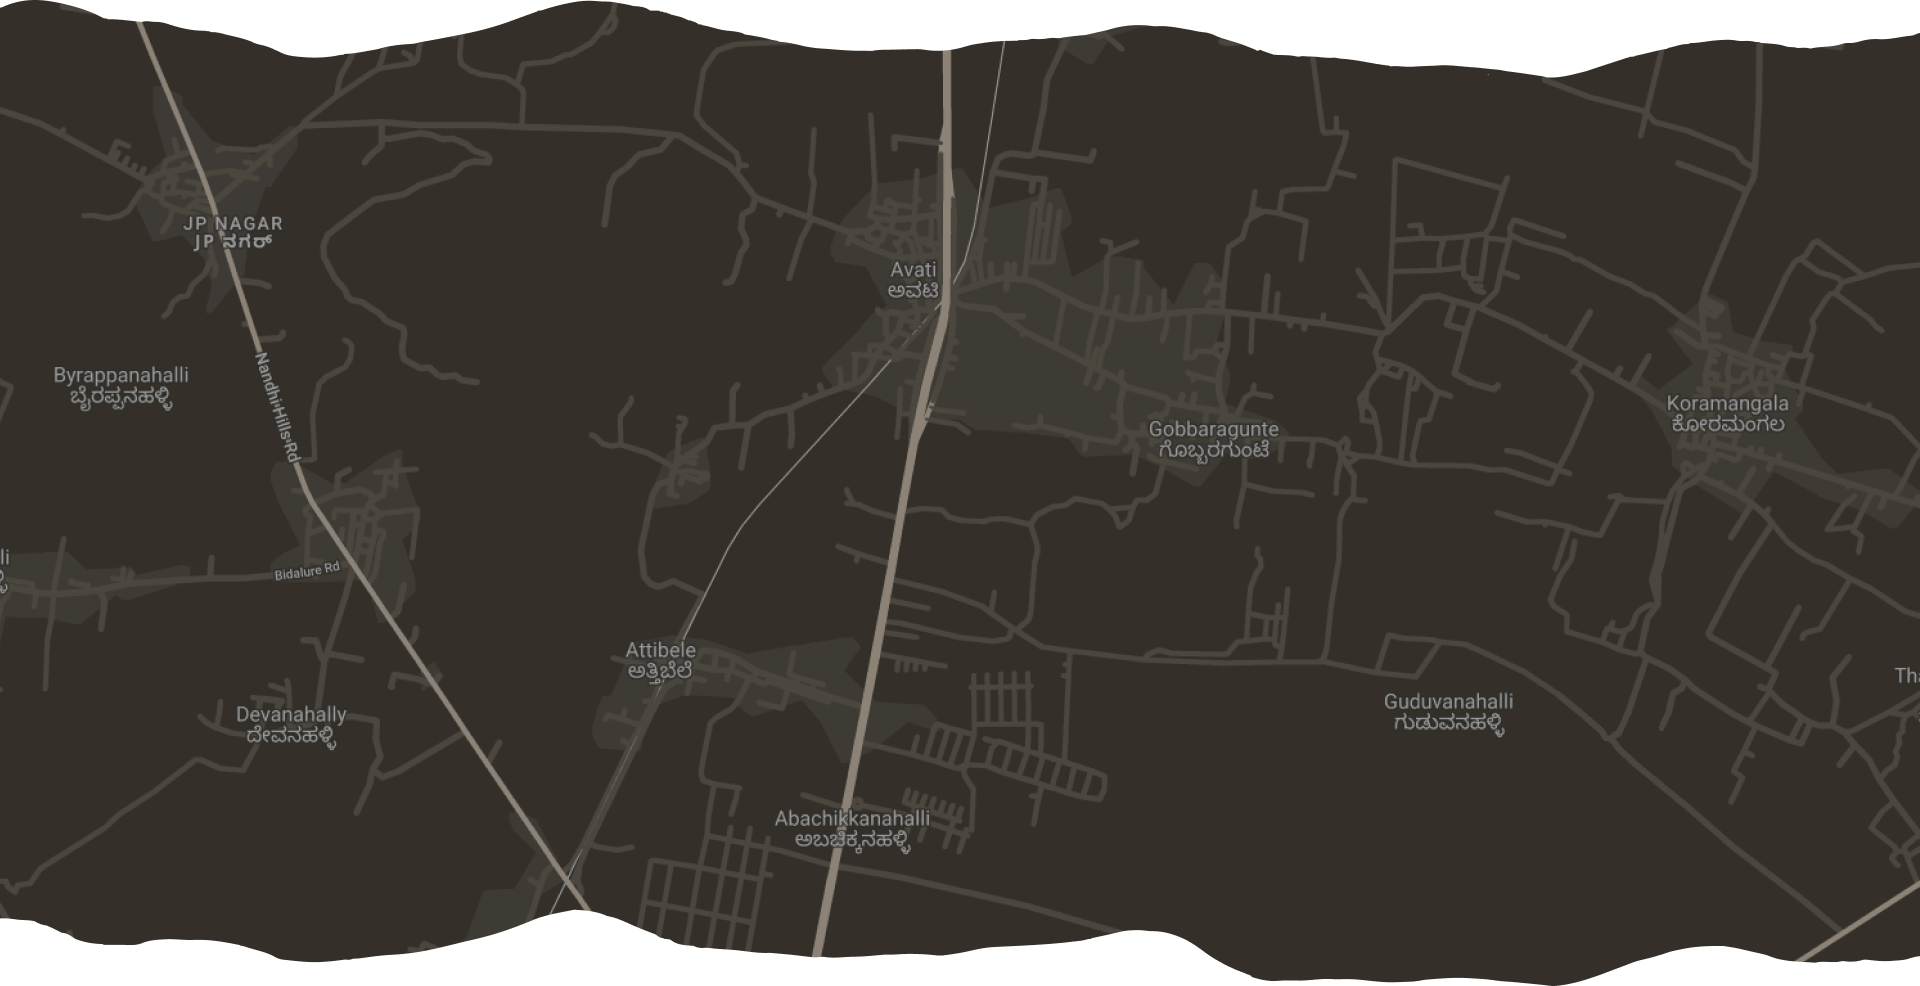
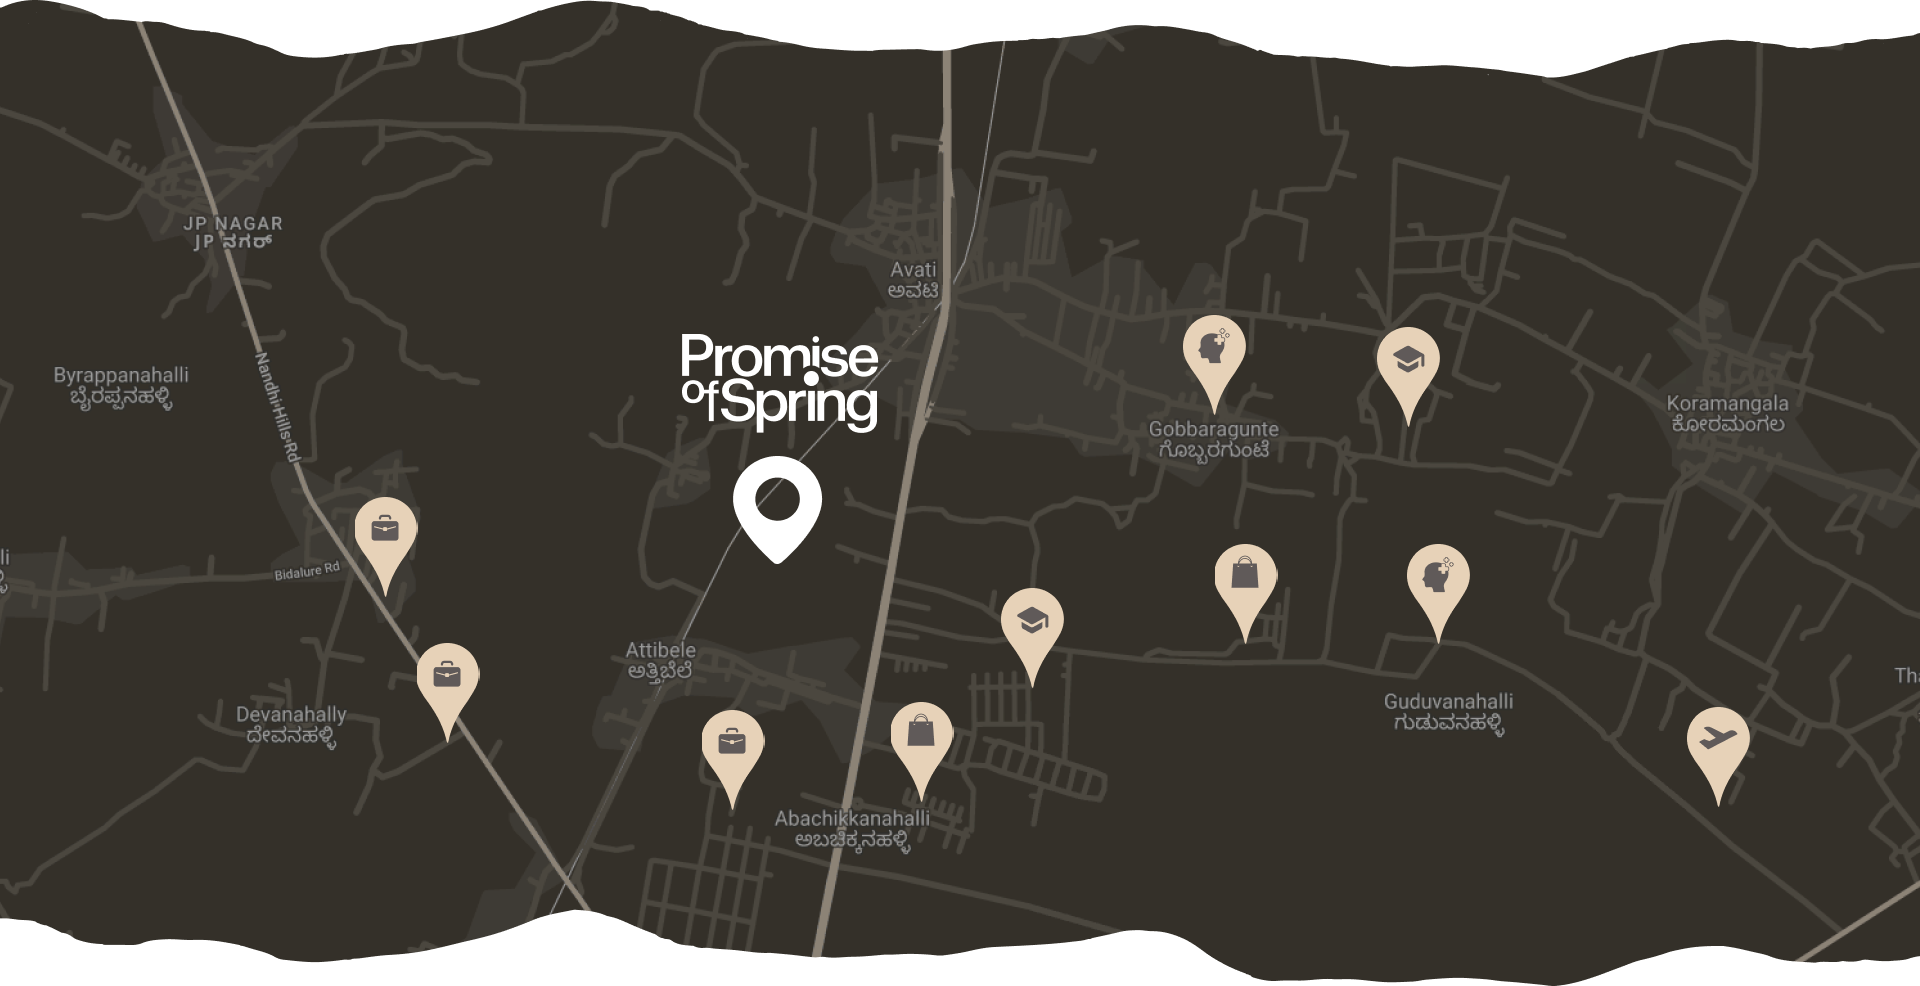
location page ongoing

diff --git a/src/pages/Location.jsx b/src/pages/Location.jsx
@@ -1,11 +1,96 @@
 import locationImg from "../assets/location.png"
 import Banner from "../components/Banner"
+import plane from "../assets/plane.png"
+import it from "../assets/it.png"
+import retail from "../assets/retail.png"
+import health from "../assets/health.png"
+import arrow from "../assets/arrow-health.svg"
+import school from "../assets/school.png"
+import "../css/location.css"
 
 const Location = () => {
   return (
     <>
       {/* Banner */}
-      <Banner heading="Our Location" para="Discover Promise of Spring's prime location in Devanahalli, ensuring easy access to essential amenities, educational institutions, healthcare facilities, and prominent landmarks." bannerImg = {locationImg} />
+      <Banner heading="Our Location" para="Discover Promise of Spring's prime location in Devanahalli, ensuring easy access to essential amenities, educational institutions, healthcare facilities, and prominent landmarks." bannerImg={locationImg} />
+
+      <section id="nearby">
+        <div className="container">
+          <div className="nearby-container">
+            <h2 className="common-heading-2 inter-semi position-relative">Nearby Sites</h2>
+            <div className="site-container">
+              <div className="row">
+                <div className="col-6">
+                  <div className="site-left">
+                    <div className="site-info d-flex">
+                      <img src={plane} alt="plane" className="img-fluid" />
+                      <div className="text-color-4">
+                        <h3 className="inter-semi common-heading-1">Airport / 21 MIN</h3>
+                        <p className="aspekta-reg text-uppercase m-0">Kempegowda International Airport - 21 min</p>
+                      </div>
+                    </div>
+                    <div className="site-info d-flex">
+                      <img src={it} alt="it" className="img-fluid" />
+                      <div className="text-color-4">
+                        <h3 className="inter-semi common-heading-1">IT & Business Hub / 25 MIN</h3>
+                        <p className="aspekta-reg text-uppercase m-0">Ecopolis IT Park - 27 min</p>
+                        <p className="aspekta-reg text-uppercase m-0">
+                          Kirloskar Business Park - 40 min
+                        </p>
+                        <p className="aspekta-reg text-uppercase m-0">Manyata Tech Park - 40 min</p>
+                      </div>
+                    </div>
+                    <div className="site-info d-flex">
+                      <img src={retail} alt="retail" className="img-fluid" />
+                      <div className="text-color-4">
+                        <h3 className="inter-semi common-heading-1">Retail & Recreation / 15 MIN</h3>
+                        <p className="aspekta-reg text-uppercase m-0" >Rigan Restobar - 5 min</p>
+                        <p className="aspekta-reg text-uppercase m-0">Olde Bangalore Resort - 24 min</p>
+                        <p className="aspekta-reg text-uppercase m-0">
+                          Clarks Exotica- 24 min
+                        </p>
+                        <p className="aspekta-reg text-uppercase m-0">The Galleria Mall - 35 min</p>
+                      </div>
+                    </div>
+                  </div>
+                </div>
+                <div className="col-6">
+                  <div className="site-right">
+                    <div className="site-info d-flex">
+                      <img src={health} alt="health" className="img-fluid" />
+                      <div className="text-color-4">
+                        <h3 className="inter-semi common-heading-1">Healthcare / 5 MIN</h3>
+                        <p className="aspekta-reg text-uppercase m-0" >Akash Hospital - 15 min</p>
+                        <a href="#" className="aspekta-reg text-uppercase m-0">Bangalore Baptist Hospital - 12 min
+                        <img src={arrow} alt="arrow" className="arrow img-fluid" />
+                        </a>
+                        <p className="aspekta-reg text-uppercase m-0">
+                        Omega Multispecialty Hospital - 35 min
+                        </p>
+                        <p className="aspekta-reg text-uppercase m-0">Manipal Northside Hospital - 37 min</p>
+                      </div>
+                    </div>
+                    <div className="site-info d-flex">
+                      <img src={school} alt="school" className="img-fluid" />
+                      <div className="text-color-4">
+                        <h3 className="inter-semi common-heading-1">School / 10 MIN</h3>
+                        <p className="aspekta-reg text-uppercase m-0" >EuroKids Pre-School - 10 min</p>
+                        <p className="aspekta-reg text-uppercase m-0">Oxford English School - 15 min
+                        </p>
+                        <p className="aspekta-reg text-uppercase m-0">
+                        Nagarjuna College of Engineering - 20 min
+                        </p>
+                        <p className="aspekta-reg text-uppercase m-0">Harrow International School - 20 min</p>
+                      </div>
+                    </div>
+                    <button className="bg-color-1">VIEW ALL LOCATIONS ON MAP</button>
+                  </div>
+                </div>
+              </div>
+            </div>
+          </div>
+        </div>
+      </section>
     </>
   )
 }

diff --git a/src/css/amenities.css b/src/css/amenities.css
@@ -34,32 +34,24 @@
     font-family: "Aspekta Thin";
     position: absolute;
     top: -15px;
-    left: -20px;
+    left: -18px;
     font-size: 14px;
 }
 
 .main-item-1 h2::before{
-    content: "01.";
+    content: "01 .";
 }
 
 .main-item-2 h2::before{
-    content: "02.";
+    content: "02 .";
 }
 
 .main-item-3 h2::before{
-    content: "03.";
-    position: absolute;
-    top: -15px;
-    left: -20px;
-    font-size: 14px;
+    content: "03 .";
 }
 
 .main-item-4 h2::before{
-    content: "04.";
-    position: absolute;
-    top: -15px;
-    left: -20px;
-    font-size: 14px;
+    content: "04 .";
 }
 
 .main-item-right img{

diff --git a/src/css/location.css b/src/css/location.css
@@ -1,0 +1,39 @@
+.nearby-container h2{
+    color: #564F45;
+}
+
+.nearby-container h2::before{
+    content: "01.";
+    position: absolute;
+    font-size: 12px;
+    top: -13px;
+    left: -15px;
+}
+
+.site-info{
+    border: 1px solid #564F45;
+    align-items: flex-start;
+    border-radius: 17px;
+    gap: 10px;
+    padding: 35px 25px;
+    width: 80%;
+}
+
+.site-info img{
+    width: 25px;
+}
+
+.site-info p{
+    font-size: 14px;
+}
+
+.site-info a{
+    font-size: 14px;
+    color: #5D5652;
+    text-decoration: underline;
+}
+
+.arrow{
+    margin-left: 5px;
+    width: 13px !important;
+}

diff --git a/src/css/common.css b/src/css/common.css
@@ -34,7 +34,6 @@ html,body{
   overflow-x: hidden;
 }
 
-
 li {
   list-style: none;
 }
@@ -42,11 +41,11 @@ li {
 a {
   display: inline-block !important;
   text-decoration: none;
-  cursor: pointer !important;
+  cursor: pointer;
 }
 
 button {
-  cursor: pointer !important;
+  cursor: pointer;
   outline: none;
   border: none;
   background-color: transparent;

diff --git a/index.html b/index.html
@@ -10,7 +10,6 @@
   <body>
     <div id="root"></div>
     <script src="https://cdn.jsdelivr.net/npm/bootstrap@5.3.2/dist/js/bootstrap.bundle.min.js" crossorigin="anonymous"></script>
-    <script src="https://unpkg.com/isotope-layout@3/dist/isotope.pkgd.min.js"></script>
     <script type="module" src="/src/main.jsx"></script>
   </body>
 </html>
